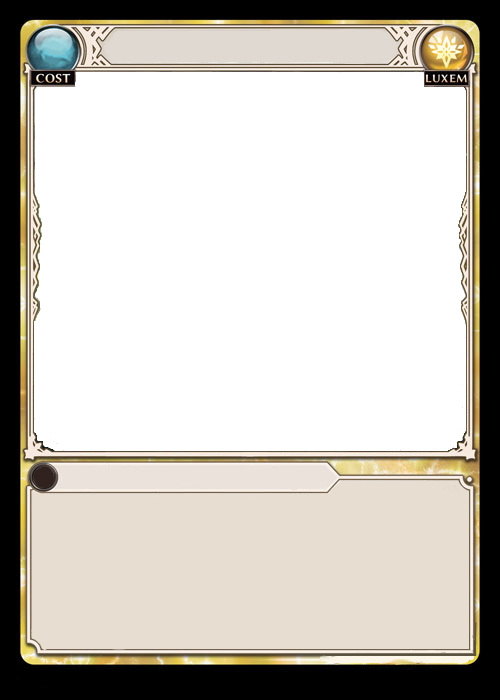
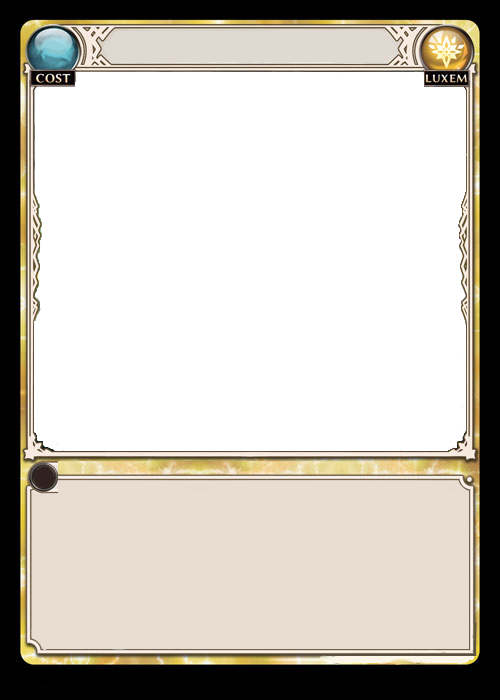
colored typelines

Changed region(s): [[0.09, 0.66, 0.69, 0.69]]

diff --git a/index.html b/index.html
@@ -28,7 +28,11 @@
       <br><br>
 
       <label for="element">Card Element:</label>
-      <select id="element" name="element" onchange="updateImage('cardElementBackground', this.value, 'element-border-')">
+      <select id="element" name="element" onchange="
+        updateImage('cardElementBackground', this.value, 'element-border-');
+        updateImage('cardTypeBar', this.value, 'element-bar-', 'webp');
+        updateImage('cardTypePoint', this.value, 'element-point-', 'webp');
+      ">
         <option value="Norm">Norm</option>
         <option value="Fire">Fire</option>
         <option value="Water">Water</option>
@@ -36,11 +40,13 @@
         <option value="Arcane">Arcane</option>
         <option value="Astra">Astra</option>
         <option value="Crux">Crux</option>
+        <option disabled value="Exia">Exia</option>
         <option value="Luxem">Luxem</option>
         <option value="Neos">Neos</option>
-        <option value="Techa">Techa</option>
+        <option disabled value="Techa">Techa</option>
         <option value="Tera">Tera</option>
         <option value="Umbra">Umbra</option>
+        <option disabled value="Wrath">Wrath</option>
       </select>
       <br><br>
 
@@ -195,8 +201,8 @@
     }
 
     // Function to change background image based on the selected element
-    function updateImage(sectionId, value, format) {
-      document.getElementById(sectionId).style.backgroundImage = `url('`+ baseURL() +`images/${format.toLowerCase()}${value.toLowerCase()}.png')`;
+    function updateImage(sectionId, value, format, imagetype="png") {
+      document.getElementById(sectionId).style.backgroundImage = `url('`+ baseURL() +`images/${format.toLowerCase()}${value.toLowerCase()}.${imagetype}')`;
       hideRenderContainer();
     }
 
@@ -306,8 +312,8 @@
       updateImage('cardType', document.getElementById('subtype').value, 'card-type-');
       updateImage('cardCostBubble', document.getElementById('costbubble').value, 'cost-');
      
-      updateImage('cardTypeBar', 'type-bar-middle', '');
-      updateImage('cardTypePoint', 'type-bar-point', '');
+      updateImage('cardTypeBar', document.getElementById('element').value, 'element-bar-', 'webp');
+      updateImage('cardTypePoint', document.getElementById('element').value, 'element-point-', 'webp');
 
       updateImage('cardCost', document.getElementById('cost').value, '')
 
